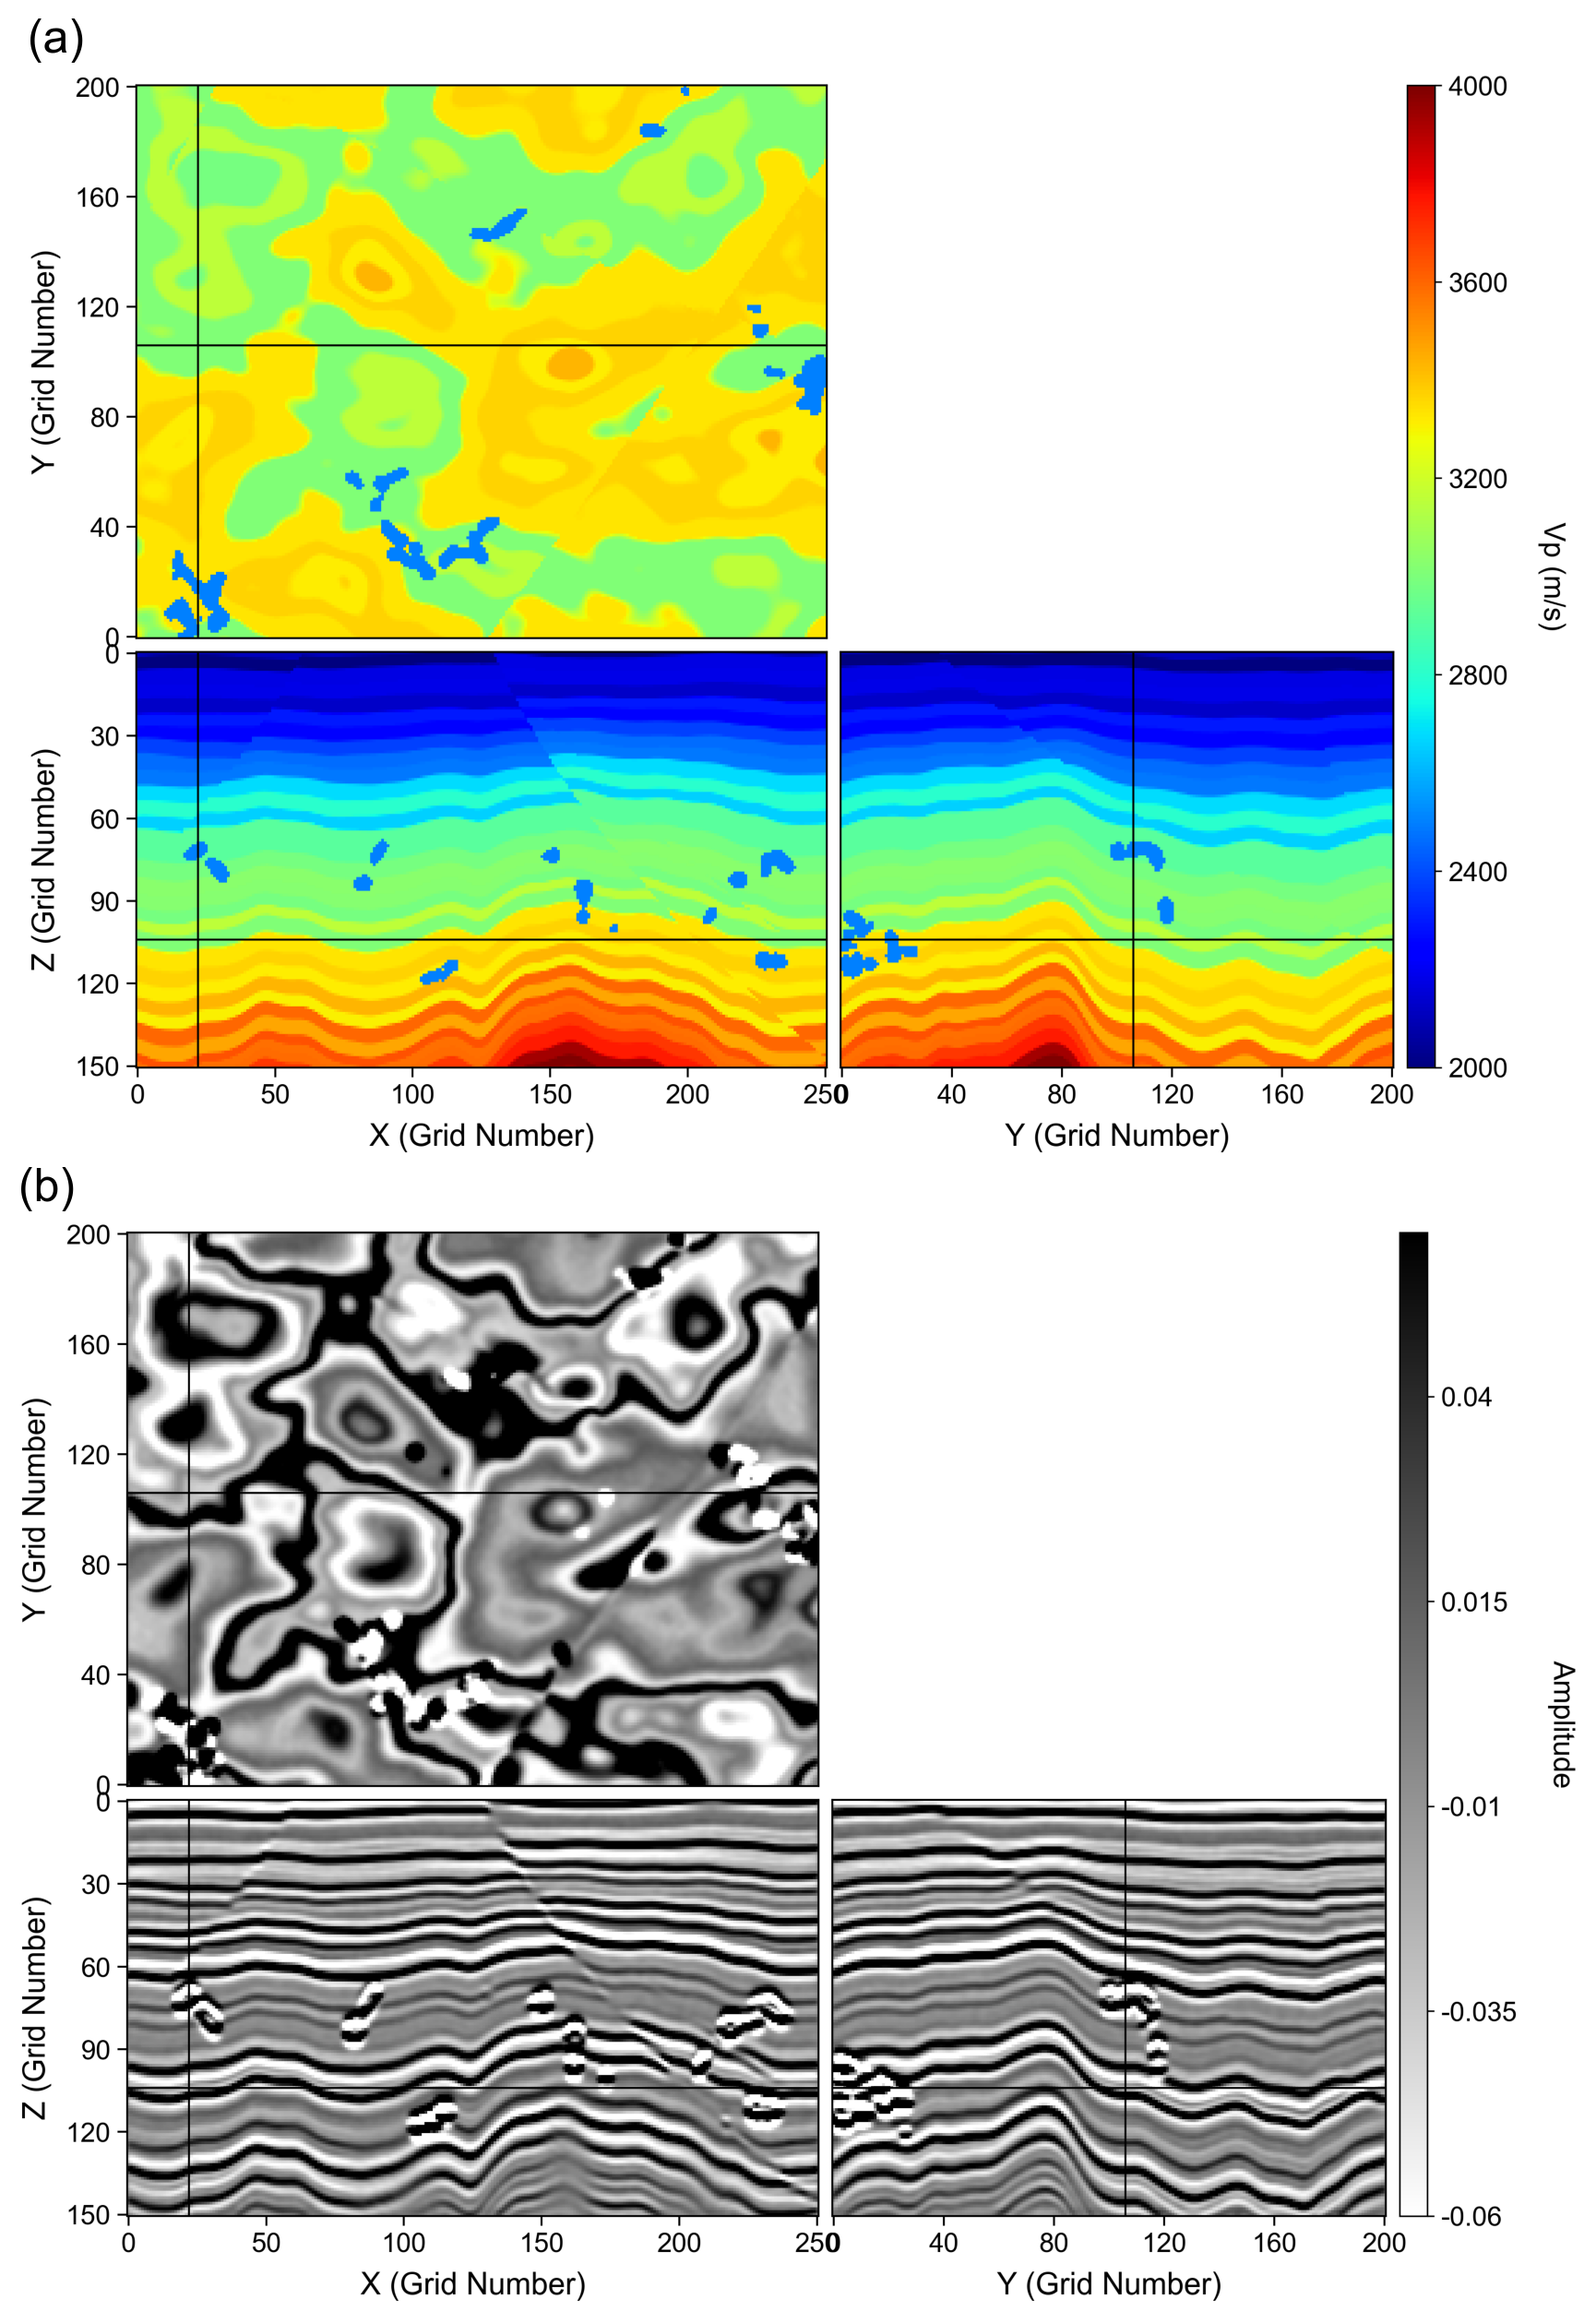
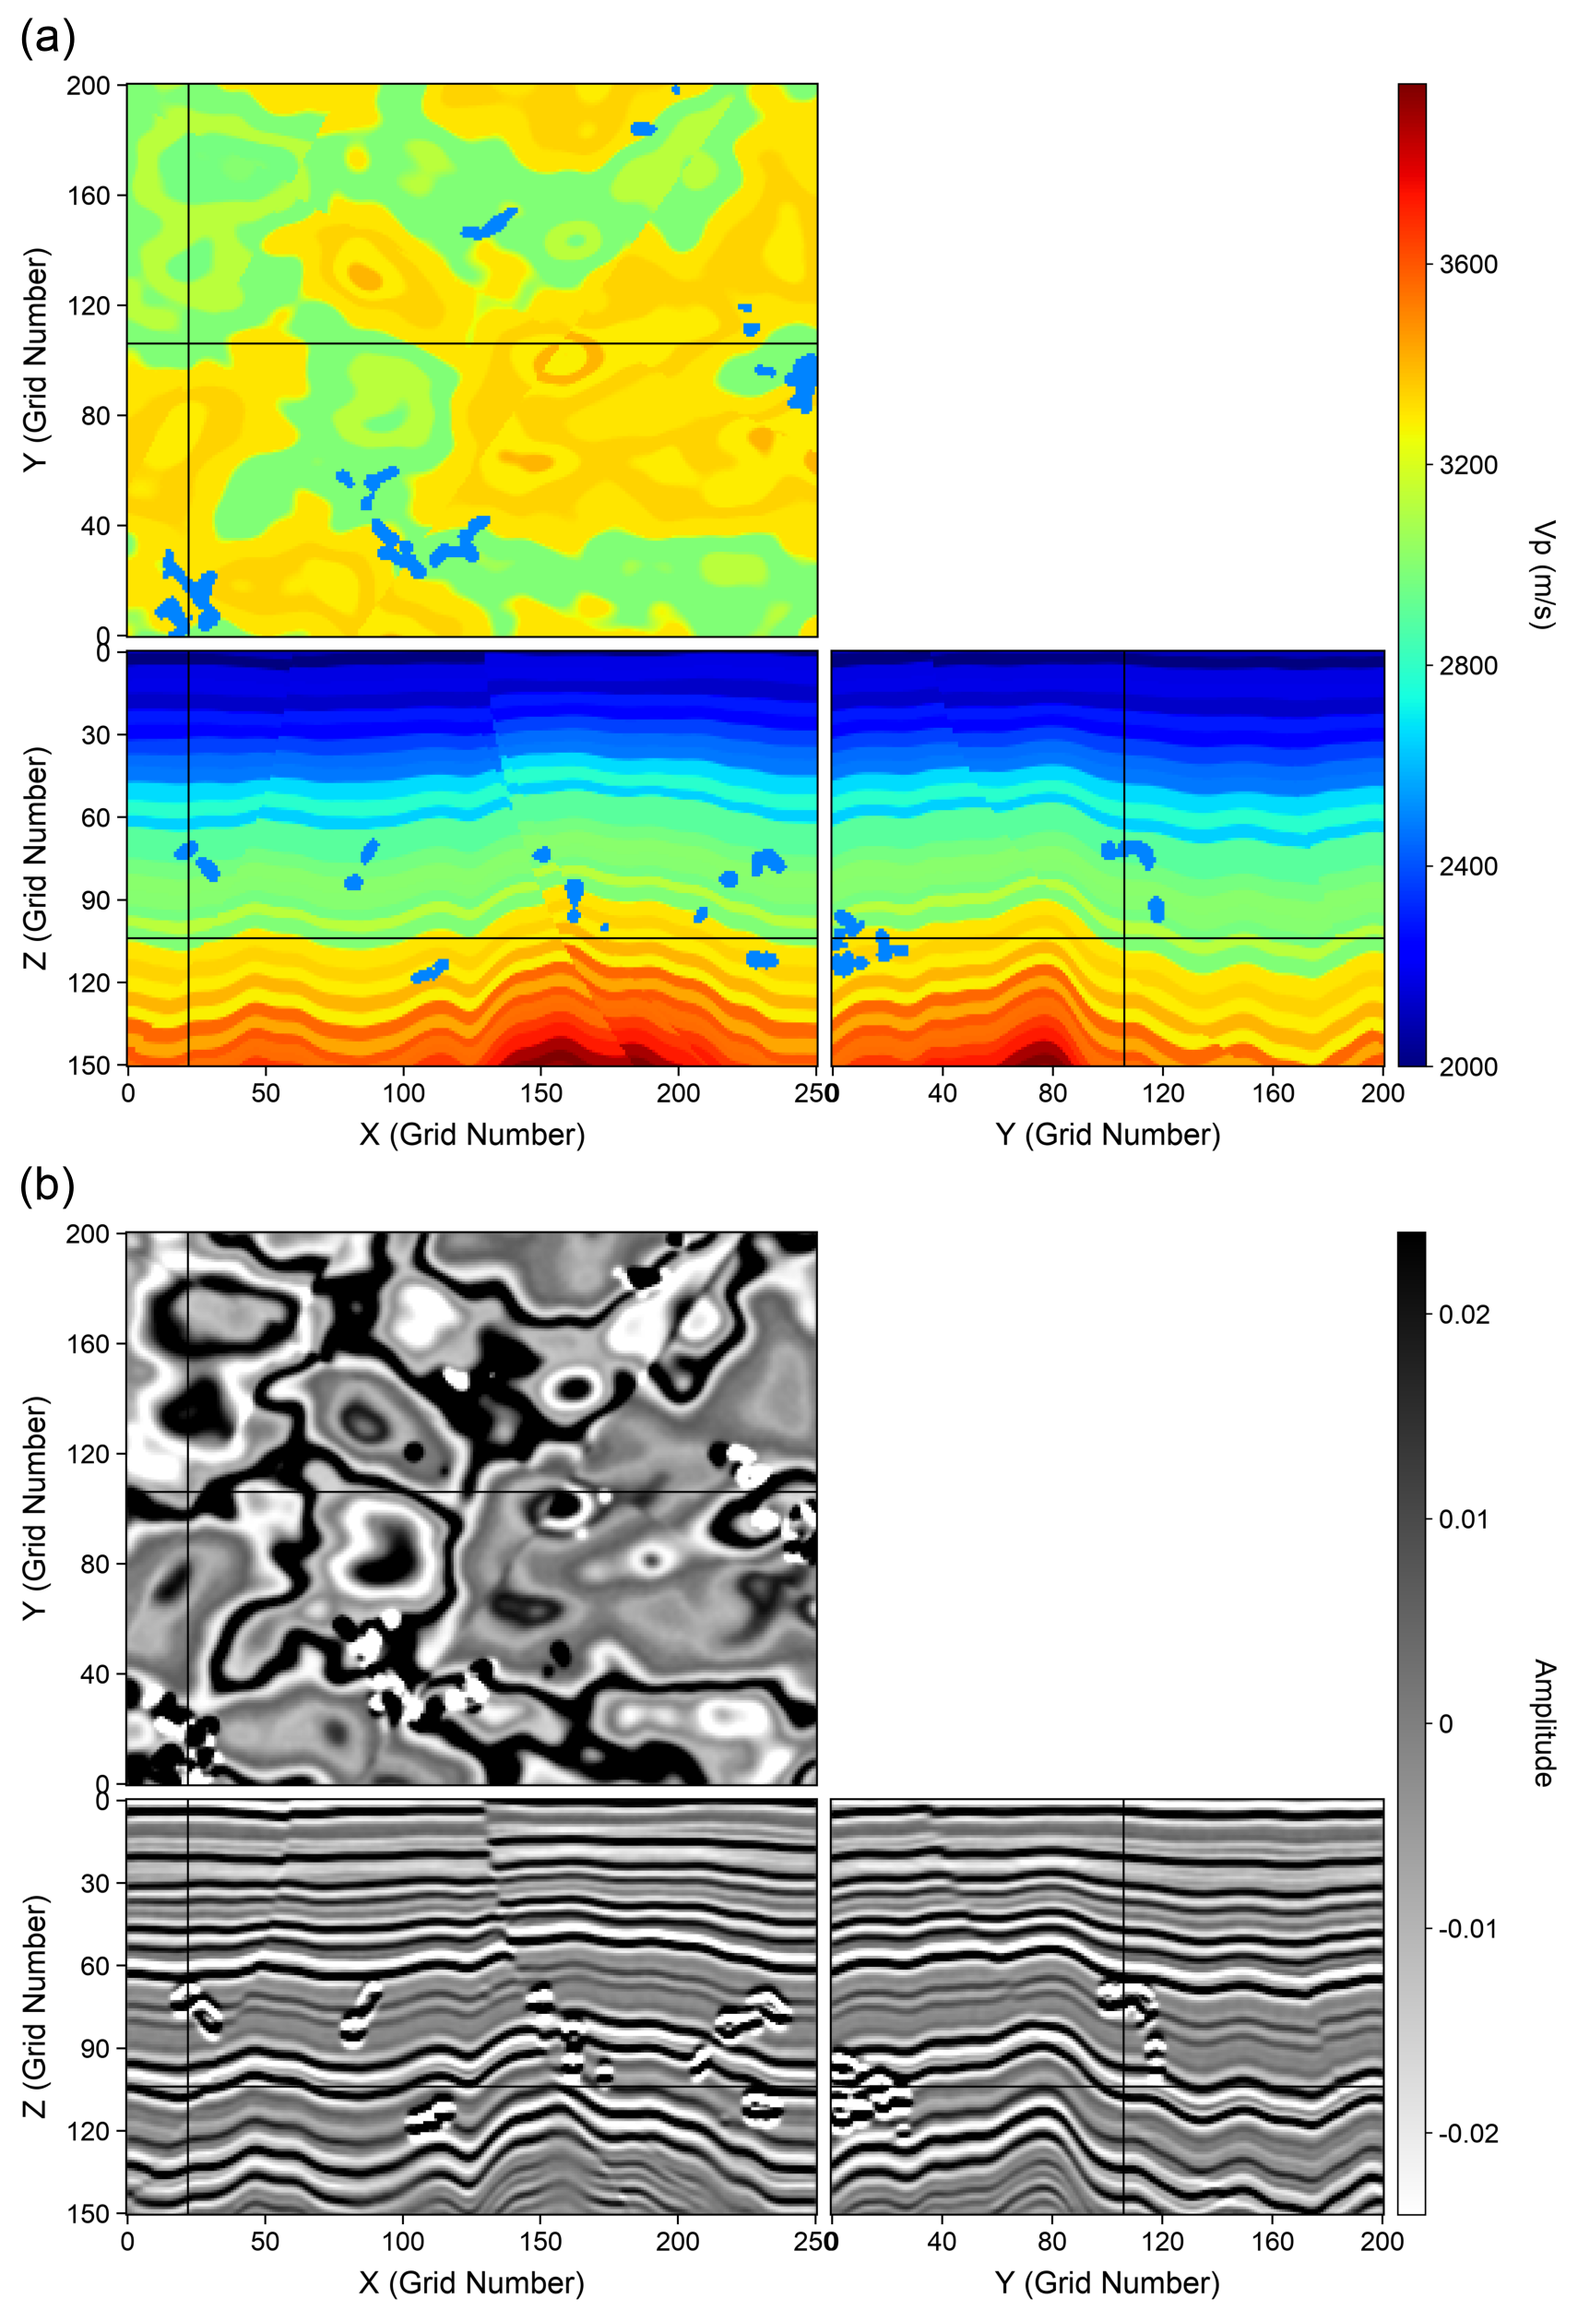
Revise example scripts

diff --git a/example/example_fault_system.py b/example/example_fault_system.py
@@ -1,0 +1,110 @@
+#
+# Fault systems that combine thrust faults, flower-like branched faults, and
+# faults, in three 2D models. The panels (velocity, the fault indices on the
+# relative geologic time, and the fault dip on the seismic image) are
+# assembled into the figure fault_system_2d.png.
+#
+
+import os
+import numpy as np
+import matplotlib
+matplotlib.use('Agg')
+import matplotlib.pyplot as plt
+from matplotlib.cm import ScalarMappable
+from matplotlib.colors import Normalize, ListedColormap, BoundaryNorm
+import rgm
+from pymplot import showmatrix
+
+os.makedirs('fault_system', exist_ok=True)
+plt.rcParams.update({'font.family': 'Arial', 'font.size': 16})
+
+# ==================================================================
+# Models
+
+models = [
+    ('Thrusts, flower-like\nbranched faults, faults,\nand an unconformity',
+     rgm.rgm2(n1=160, n2=320, nl=40, nf=3, seed=3026, lwv=0.4, lwh=0.1, delta_v=1000.0,
+              refl_shape='random', refl_smooth=40, refl_height=[0.0, 12.0], refl_height_top=[0.0, 6.0],
+              dip=[55.0, 125.0], disp=[6.0, 15.0],
+              nthrust=3,
+              nflower=2, flower_type='positive', flower_nbranch=[2, 5], flower_master_disp=[1.0, 1.5],
+              unconf=1, unconf_z=[0.12, 0.18], unconf_height=[5.0, 10.0],
+              yn_rgt=True, noise_level=0.0)),
+    ('Thrusts, flower-like\nbranched faults, and\nfaults that die out',
+     rgm.rgm2(n1=160, n2=320, nl=40, nf=3, seed=3028, lwv=0.4, lwh=0.1, delta_v=1000.0,
+              refl_shape='random', refl_smooth=40, refl_height=[0.0, 12.0], refl_height_top=[0.0, 6.0],
+              dip=[55.0, 125.0], disp=[6.0, 15.0], yn_vary_disp=True,
+              nthrust=2, thrust_sequence='random',
+              nflower=2, flower_type='hybrid', flower_nbranch=[2, 5], flower_master_disp=[1.0, 2.25],
+              yn_rgt=True, noise_level=0.0)),
+    ('Thrusts and flower-like\nbranched faults',
+     rgm.rgm2(n1=160, n2=320, nl=40, nf=0, seed=3015, lwv=0.4, lwh=0.1, delta_v=1000.0,
+              refl_shape='random', refl_smooth=40, refl_height=[0.0, 12.0], refl_height_top=[0.0, 6.0],
+              nthrust=3, thrust_sequence='random',
+              nflower=1, flower_type='positive', flower_nbranch=[1, 2], flower_master_disp=[1.0, 1.75],
+              yn_rgt=True, noise_level=0.0)),
+]
+
+rgt = []
+fault = []
+for i, (name, p) in enumerate(models):
+    p.generate()
+    showmatrix(p.vp, colormap='jet', cmin=2000, cmax=4000, imageonly=True,
+               outfile='fault_system/2d_%02d_vp.png' % i)
+    # The fault dip on the faults only (not a number elsewhere, which is not drawn)
+    showmatrix(np.where(p.fault > 0, p.fault_dip, np.nan), background=p.image, backcolormap='binary',
+               backclip=2*p.image.std(), colormap='jet', cmin=0, cmax=180, imageonly=True,
+               outfile='fault_system/2d_%02d_dip.png' % i)
+    rgt.append(p.rgt.copy())
+    fault.append(p.fault.copy())
+    p.free()
+
+# ==================================================================
+# Figure: one row per model; the velocity, the fault indices in pure colors on
+# the relative geologic time in light gray (pymplot takes only named
+# colormaps, so this panel is drawn with matplotlib), and the fault dip on the
+# seismic image. The quantities and units are at the colorbars. The layout is
+# in inches: panel width pw and height ph, row-label width lw, top margin tm,
+# height cb of the band with the colorbars, and gap between the panels; at 192
+# dots per inch, each grid point of the fault-index panels covers 3 by 3
+# pixels.
+
+colors = ['#ff0000', '#0000ff', '#00a000', '#ff00ff', '#00c0c0', '#ff8000', '#8000ff', '#000000', '#a05000',
+          '#008080', '#c0c000', '#ff0080', '#0080ff', '#80ff00', '#800000', '#000080', '#008000', '#808000']
+nid = max(int(f.max()) for f in fault)
+fmap = ListedColormap([colors[k % len(colors)] for k in range(nid)])
+fnorm = BoundaryNorm(np.arange(0.5, nid + 1.0), nid)
+
+nrow, ncol = len(models), 3
+pw = 5.0
+ph = pw*fault[0].shape[0]/fault[0].shape[1]
+lw, tm, cb, gap = 1.25, 0.125, 1.25, 0.0625
+fw = lw + ncol*pw + (ncol - 1)*gap + 0.125
+fh = tm + nrow*ph + (nrow - 1)*gap + cb
+fig = plt.figure(figsize=(fw, fh))
+for i in range(nrow):
+    y = fh - tm - (i + 1)*ph - i*gap
+    for j in range(ncol):
+        ax = fig.add_axes([(lw + j*(pw + gap))/fw, y/fh, pw/fw, ph/fh])
+        if j == 0:
+            ax.imshow(plt.imread('fault_system/2d_%02d_vp.png' % i), interpolation='antialiased', aspect='auto')
+        elif j == 1:
+            ax.imshow(rgt[i], cmap='gray', alpha=0.3, interpolation='nearest', aspect='auto')
+            ax.imshow(np.ma.masked_where(fault[i] == 0, fault[i]), cmap=fmap, norm=fnorm, interpolation='nearest',
+                      aspect='auto')
+        else:
+            ax.imshow(plt.imread('fault_system/2d_%02d_dip.png' % i), interpolation='antialiased', aspect='auto')
+        ax.set_xticks([])
+        ax.set_yticks([])
+    fig.text((lw - 0.5)/fw, (y + 0.5*ph)/fh, models[i][0], rotation=90, ha='center', va='center')
+
+bars = [(Normalize(2000, 4000), 'jet', [2000, 3000, 4000], 'Vp (m/s)'),
+        (fnorm, fmap, [1] + list(range(5, nid + 1, 5)), 'Fault index'),
+        (Normalize(0, 180), 'jet', [0, 60, 120, 180], 'Fault dip (degrees)')]
+for j, (norm, cmap, ticks, label) in enumerate(bars):
+    cax = fig.add_axes([(lw + j*(pw + gap) + 0.1*pw)/fw, 0.8/fh, 0.8*pw/fw, 0.15/fh])
+    cbar = fig.colorbar(ScalarMappable(norm=norm, cmap=cmap), cax=cax, orientation='horizontal', ticks=ticks)
+    cbar.minorticks_off()
+    cbar.set_label(label)
+fig.savefig('fault_system_2d.png', dpi=192)
+plt.close(fig)

diff --git a/doc/rgm_v2/scripts/fig_fault_3d.py b/doc/rgm_v2/scripts/fig_fault_3d.py
@@ -8,10 +8,21 @@
 #
 import numpy as np
 import pyvista as pv
+import vtk
+from matplotlib import font_manager
 from scipy.ndimage import distance_transform_edt
 
 pv.OFF_SCREEN = True
 pv.global_theme.font.family = 'arial'
+
+# The Arial font files for all the text (the built-in 'arial' of VTK is a
+# different font)
+arial = font_manager.findfont(font_manager.FontProperties(family='Arial'))
+arial_bold = font_manager.findfont(font_manager.FontProperties(family='Arial', weight='bold'))
+
+def use_arial(prop):
+    prop.SetFontFamily(vtk.VTK_FONT_FILE)
+    prop.SetFontFile(arial_bold if prop.GetBold() else arial)
 
 n1, n2, n3 = 171, 251, 251
 
@@ -36,7 +47,8 @@ def fault_surface(fid, attr):
     return surf.smooth(n_iter=20)
 
 surf_a = fault_surface(load('fault_vstrike'), load('fstrike_vstrike'))
-surf_b = fault_surface(load('fault_vdisp'), load('fdisp_vdisp'))
+# The displacement magnitude: fault_disp is negative for reverse faults
+surf_b = fault_surface(load('fault_vdisp'), np.abs(load('fdisp_vdisp')))
 
 # focal shifted along the screen-right direction so the scene sits left
 # of the scalar bar
@@ -62,14 +74,21 @@ for i, (surf, title, btitle, clim) in enumerate(
                                     width=0.045, title_font_size=30,
                                     label_font_size=26, fmt='%.0f',
                                     n_labels=5 if i == 0 else 6))
-    p.add_text(title, font_size=20, color='black', position='upper_left')
-    p.show_bounds(bounds=(0, n3 - 1, 0, n2 - 1, 0, n1 - 1),
-                  xtitle='X (Grid Number)', ytitle='Y (Grid Number)',
-                  ztitle='Z (Grid Number)', color='black', font_size=22,
-                  location='outer', ticks='outside', grid=False,
-                  n_xlabels=6, n_ylabels=5, n_zlabels=4)
+    p.add_text(title, font_size=20, color='black', position='upper_left', font_file=arial)
+    axes = p.show_bounds(bounds=(0, n3 - 1, 0, n2 - 1, 0, n1 - 1),
+                         xtitle='X (Grid Number)', ytitle='Y (Grid Number)',
+                         ztitle='Z (Grid Number)', color='black', font_size=22,
+                         location='outer', ticks='outside', grid=False,
+                         n_xlabels=6, n_ylabels=5, n_zlabels=4)
+    for k in range(3):
+        use_arial(axes.GetTitleTextProperty(k))
+        use_arial(axes.GetLabelTextProperty(k))
     p.camera_position = [pos if i == 0 else pos_b, focal, (0, 0, -1)]
     p.camera.zoom(0.80)
+
+for bar in p.scalar_bars.values():
+    use_arial(bar.GetTitleTextProperty())
+    use_arial(bar.GetLabelTextProperty())
 
 p.screenshot('../fig_fault_3d.png')
 print('saved fig_fault_3d.png')

diff --git a/doc/rgm_v2/scripts/fig_karst_pairs.py b/doc/rgm_v2/scripts/fig_karst_pairs.py
@@ -18,7 +18,7 @@ exdir = '../tmp'
 outdir = '../tmp'
 os.makedirs(outdir, exist_ok=True)
 
-clip = 0.06   # symmetric amplitude clip for the seismic images
+clip = 0.024  # symmetric amplitude clip for the seismic images, about 1.3 times the standard deviation of the 3D image
 
 # ---------------------------------------------------------------- 3D pair
 n1, n2, n3 = 151, 201, 251
@@ -30,7 +30,7 @@ os.system(f'x_showslice -in {exdir}/example_3d_vp_karst_1_151x201x251.bin '
           f'-out {outdir}/karst3d_vp.png >/dev/null 2>&1')
 os.system(f'x_showslice -in {exdir}/example_3d_image_karst_1_151x201x251.bin '
           f'{common} -color binary -legend 1 -unit "Amplitude" '
-          f'-cmin {-clip:.6f} -cmax {clip:.6f} '
+          f'-cmin {-clip:.6f} -cmax {clip:.6f} -ld 0.01 -ltickbeg -0.02 -ltickend 0.02 '
           f'-out {outdir}/karst3d_img.png >/dev/null 2>&1')
 
 fig, axes = plt.subplots(2, 1, figsize=(9.0, 12.6))

diff --git a/README.md b/README.md
@@ -90,7 +90,7 @@ The compiled executables will be in `example/bin`:
 
 Running these executables will generate the medium parameter models, seismic images, and the associated labels (fault attributes, RGT, facies, salt and karst masks) in the working directory. All the generated files will be in little-endian single-precision raw binary format, with dimensions specified in the respective codes.
 
-For the Python interface, [example/example_python.py](example/example_python.py) generates one model for each feature type, [example/example_shape_noise.py](example/example_shape_noise.py) shows reflector shapes and image noise, [example/example_fault_types.py](example/example_fault_types.py) shows the fault types, [example/example_flower.py](example/example_flower.py) shows flower-like branched fault systems, and [example/example_elastic.py](example/example_elastic.py) shows elastic models. The scripts plot with `pymplot` and save the figures in the working directory:
+For the Python interface, [example/example_python.py](example/example_python.py) generates one model for each feature type, [example/example_shape_noise.py](example/example_shape_noise.py) shows reflector shapes and image noise, [example/example_fault_types.py](example/example_fault_types.py) shows the fault types, [example/example_flower.py](example/example_flower.py) shows flower-like branched fault systems, [example/example_fault_system.py](example/example_fault_system.py) shows fault systems that combine thrusts, flower-like branched faults, and faults, and [example/example_elastic.py](example/example_elastic.py) shows elastic models. The scripts plot with `pymplot` and save the figures in the working directory:
 
 ```
 cd example
@@ -98,6 +98,7 @@ python3 example_python.py
 python3 example_shape_noise.py
 python3 example_fault_types.py
 python3 example_flower.py
+python3 example_fault_system.py
 python3 example_elastic.py
 ```
 
